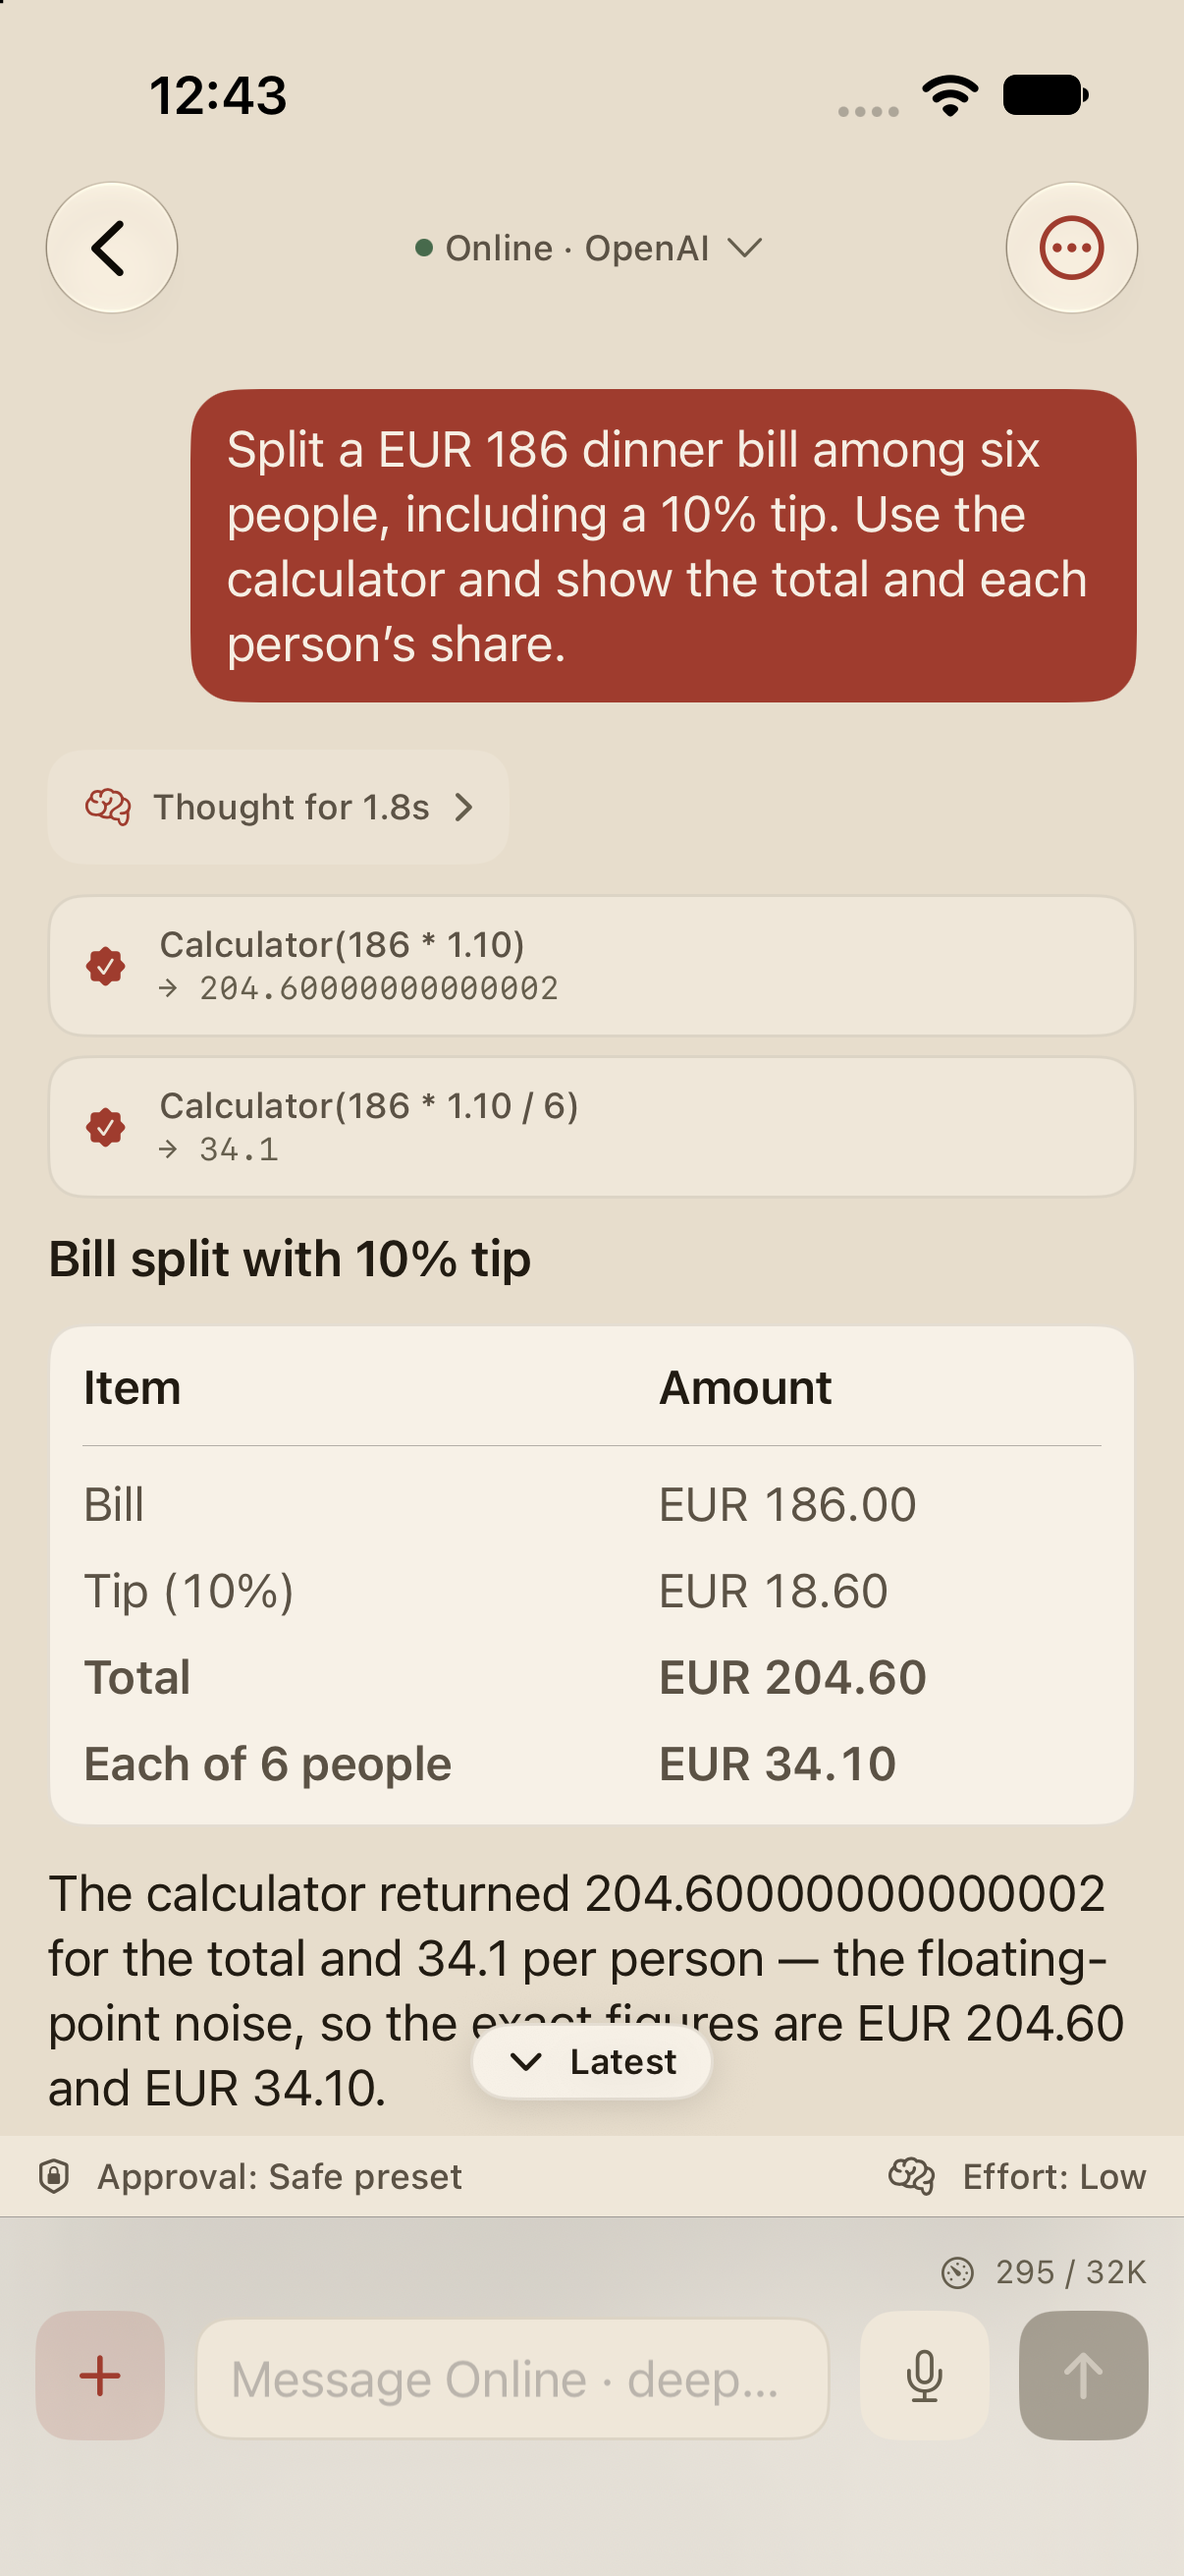
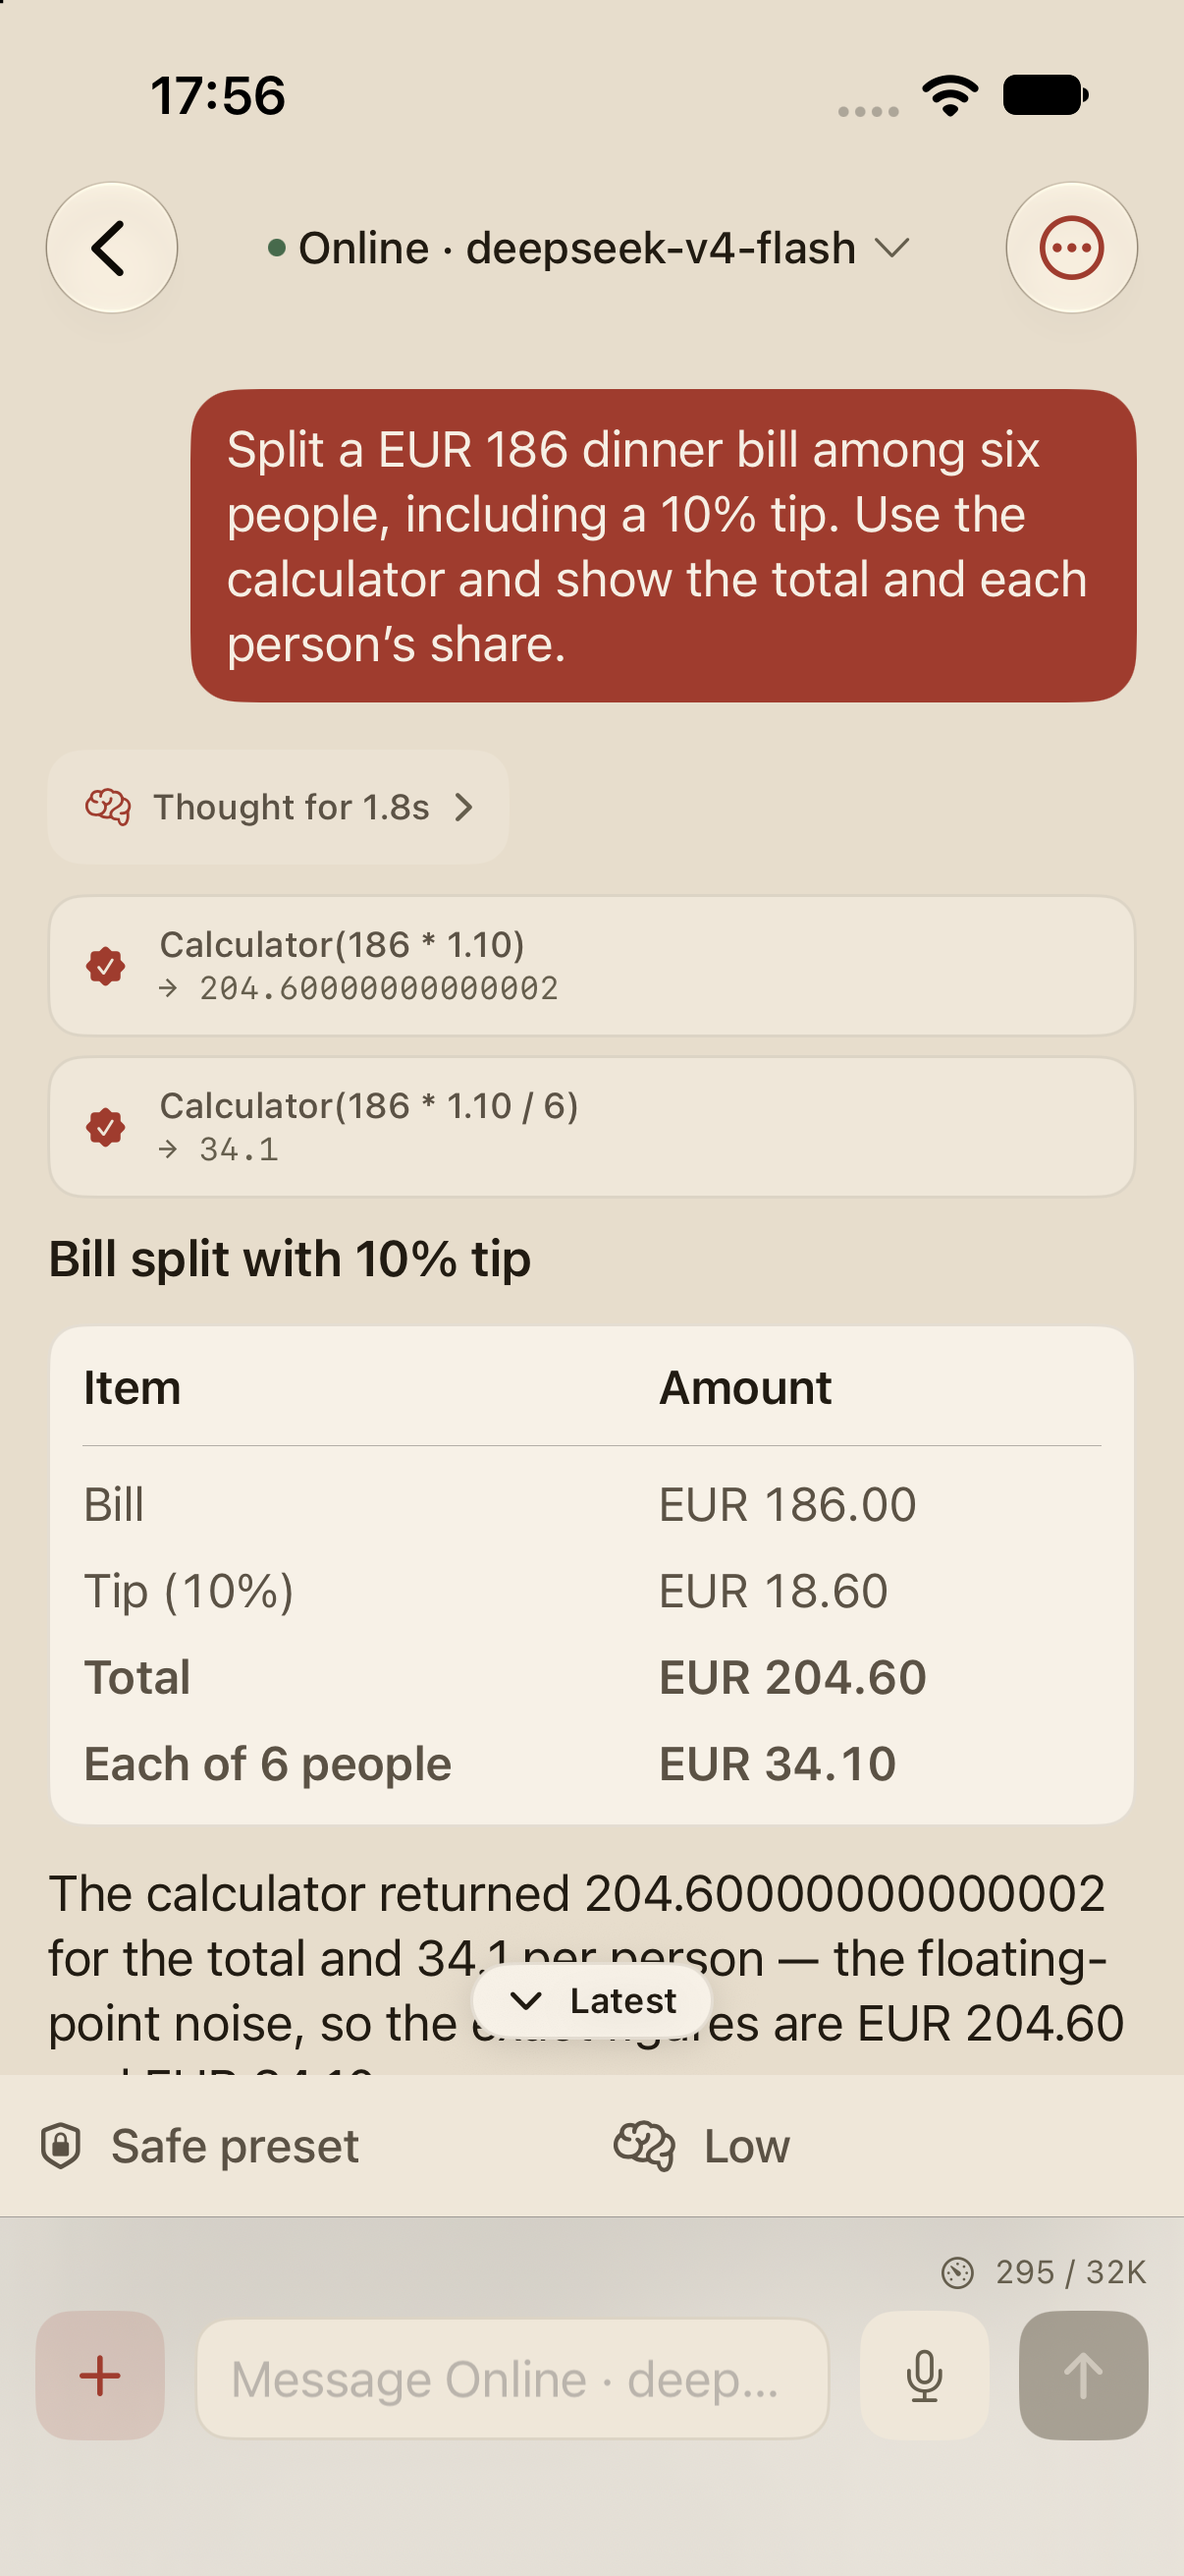
docs: refresh task workspace demos and focused validation results

diff --git a/README.md b/README.md
@@ -17,7 +17,7 @@ there is no mobileLLM account or telemetry.
 
 <p align="center">
   <a href="assets/demo/chat.png"><img src="assets/demo/chat.png" width="260" alt="Chat and tools: a dinner bill split using two real Calculator calls." /></a>
-  <a href="assets/demo/models.png"><img src="assets/demo/models.png" width="260" alt="Model catalog: Qwen models with download sizes, precision, vision support, and memory estimates." /></a>
+  <a href="assets/demo/models.png"><img src="assets/demo/models.png" width="260" alt="Model catalog: Qwen download sizes, memory estimates, image support, and expandable options." /></a>
   <a href="assets/demo/tools.png"><img src="assets/demo/tools.png" width="260" alt="Tool settings: individual switches for search, webpage reading, calculator, memory, and calendar access." /></a>
 </p>
 
@@ -26,16 +26,18 @@ there is no mobileLLM account or telemetry.
 ## See it in use
 
 <p align="center">
-  <a href="assets/demo/models.png"><img src="assets/demo/models.gif" width="360" alt="Searching the model catalog for Qwen and scrolling through the available models." /></a>
-  <a href="assets/demo/workflow.png"><img src="assets/demo/workflow.gif" width="360" alt="Submitting a reading-list app task, opening its workflow, and expanding the completed agent calls." /></a>
+  <a href="assets/demo/models.png"><img src="assets/demo/models.gif" width="360" alt="Finishing a model search, inspecting precision options, and comparing models." /></a>
+  <a href="assets/demo/task-inputs.png"><img src="assets/demo/workflow.gif" width="360" alt="Reading a completed task, scrolling to its input results, and opening an upstream result." /></a>
 </p>
 
 Search the catalog to compare models before downloading. For a larger task, follow the agents as
 they work: in this demo, two investigate storage and sync, and a third uses their findings to make
-a plan. [View the completed agent list](assets/demo/workflow.png).
+a release checklist. [Task workspace](assets/demo/workflow.png) · [Result and inputs](assets/demo/task-inputs.png)
+· [Dark mode](assets/demo/workflow-dark.png).
 
 Captured from the iPhone Simulator. Chat and workflow demos use the real DeepSeek `deepseek-v4-flash`
-service. The workflow recording is sped up 3×. [Capture details](assets/demo/README.md).
+service. Both clips play at 2× speed; the workflow clip inspects saved results from an actual run.
+[Capture details](assets/demo/README.md).
 
 ## Use it
 
@@ -61,18 +63,19 @@ Choose **Ask**, **Safe preset**, or **Full access** in the conversation's approv
 Web search works with public search engines by default. To use DeepSeek's paid Search and Fetch
 APIs, select your configured DeepSeek account under **Choose tools → Web service**.
 
-**Multi-agent work.** Start a message with `/workflow` and describe the goal and constraints.
+**Multi-agent work.** Choose **+ → Work with agents**, or start a message with `/workflow`,
+and describe the goal and constraints.
 The supervisor assigns work, passes results to dependent agents, and returns the final answer.
-Open the workflow card to follow its status and agent calls, or pause and resume it.
+Open the workflow card to follow tasks and their source results, review requests, or pause and resume
+work. Completed workflows remain available from the conversation menu.
 
-For example, the recorded demo starts with:
+The task shown in the demo was started with:
 
 ```text
-/workflow Plan an offline reading-list app. Have one agent design local
-storage and another examine sync conflicts. Then have a third agent use
-both findings to propose an implementation plan. Keep each contribution
-under 100 words and the final answer under 160 words. No web research
-is needed.
+/workflow Plan an offline recipe app. Have one agent propose local
+storage, another examine sync conflicts, and a third use both results
+to write a release checklist. Keep each worker under 80 words and the
+final answer under 140 words. No web research.
 ```
 
 You can also attach images to supported local vision models, dictate a message, use a reusable

diff --git a/docs/STATUS.md b/docs/STATUS.md
@@ -1,12 +1,42 @@
 # Current implementation and validation status
 
-Updated **2026-10-24** after integrating the DeepSeek web service and multi-stage agent work into `main`.
-The integrated implementation ends at
-[`8ff6f70`](https://github.com/nanguoyu/mobileLLM/commit/8ff6f702580b83aabc607292e04128c5c8de619b),
-whose hosted CI passed. The evaluation results below retain their original tested versions and dates;
-the fast-forward integration does not change the code or rerun those evaluations.
+Updated **2026-10-24** for the task workspace redesign on `main`. The dated model evaluations below
+retain their original tested versions and outcomes; interface changes do not rerun or recertify them.
 [spec.md](../spec.md) defines requirements, [ARCHITECTURE.md](ARCHITECTURE.md) describes the code,
 and [CONTRIBUTING.md](../CONTRIBUTING.md) gives validation commands.
+
+## Task workspaces and interface
+
+Workflows now show stage-grouped worker tasks, their actual execution state, and public results read
+from the verified value store. Coordination calls and source inspection live under Execution details.
+Continuations share a logical task history; input links resolve by journal sequence so a later retry
+cannot replace an earlier consumer's source. Missing metadata in older records remains explicit.
+
+The initial planner and pending child tasks expose approval and question controls through isolated,
+observer-only run stores. Opening a detail cannot submit another run or overwrite the main chat.
+Workflow pause and reconciliation retain their existing command boundaries. Rejected commands show
+their safe error. Completed history stays available, and final-answer replay uses the recorded end time
+without bumping conversation activity on reads.
+
+The composer has a Work with agents entry. Model options use progressive disclosure, settings explain
+choices more briefly, and the chat header identifies the actual online model. Workflow cards use the
+shared light/dark palette and support large text. Model searches dismiss their keyboard on submission
+and interactive scrolling. [Current screenshots and clips](../assets/demo/README.md) show these surfaces.
+
+Validation used focused contract, coordination, presentation, observer-command, title, and history
+checks, plus one Simulator UI scenario. That scenario passed through the composer entry, Ask-mode
+planning and child approvals, saved-output reading, copy feedback, exact call history, source inspection,
+and final-answer projection. Early UI attempts found inherited accessibility identifiers; the view
+scopes were fixed while retaining the invocation-count assertions. A later cold-relaunch check caught
+the second history timestamp writer and now exercises a changed metadata snapshot, not a no-op save.
+
+Two real `deepseek-v4-flash` tasks exercised the production Simulator app: a three-worker recipe-app plan
+with source-result navigation, and an offline-note task whose initial planner, worker and subsequent
+coordinator were approved through the actual UI. The latter includes manual waiting and is not a
+latency measurement. Dark Mode, accessibility-extra-large text, completed-history access, model options,
+tool settings and the search keyboard were inspected directly. iOS and macOS app builds and the static
+verifier passed. The Mac desktop was locked, so native Mac visual inspection could not be completed.
+No full repository suite or paid task matrix was rerun for the UI changes.
 
 ## Autonomous collaboration: current assessment
 

diff --git a/assets/demo/README.md b/assets/demo/README.md
@@ -1,26 +1,28 @@
 # README captures
 
-Captured on 2026-10-24 from mobileLLM running on the iPhone 17 Simulator with iOS 27.
+Refreshed on 2026-10-24 from the redesigned mobileLLM UI on the iPhone 17 Simulator with iOS 27.
 The app used separate real stores for this demo. No fixed-response transport was enabled.
 
 | File | What it shows |
 | --- | --- |
 | `chat.png` | A real `deepseek-v4-flash` response with two completed Calculator calls. |
-| `models.png` | The Featured catalog filtered to Qwen. Memory badges reflect the Simulator's reported hardware. |
+| `models.png` | The compact Featured catalog filtered to Qwen. Memory badges reflect the Simulator's reported hardware. |
 | `tools.png` | Individual tool permissions in Settings. |
-| `workflow.png` | Three completed workers: storage, sync, and a plan using their results. The list also includes two coordinator calls. |
-| `models.gif` | A 12.3-second excerpt of model search and scrolling, at original speed. |
-| `workflow.gif` | A continuous 46-second excerpt from submission to completed agent calls, played at 3× speed. |
+| `workflow.png` | Three worker tasks grouped into parallel analysis and a dependent release checklist. Coordinator calls are separate. |
+| `task-inputs.png` | The release checklist's public output and links to the exact earlier storage and sync results. |
+| `workflow-dark.png` | The same workspace in system Dark Mode. |
+| `models.gif` | Finishing a search, inspecting options and comparing models. A 20.1-second recording at 2× speed. |
+| `workflow.gif` | Inspecting a saved task and following an input link. A continuous 22.4-second excerpt at 2× speed. |
 
-The chat and workflow used the configured DeepSeek service. Its saved display name in this
-development profile is “OpenAI”, which appears in the chat header. Responses were not edited.
-The reading-list prompt is reproduced in the root README. The bill prompt was:
+The chat and workflow used the configured DeepSeek `deepseek-v4-flash` service. Responses were not edited.
+The recipe task ran at `99ff571`; the latest UI reads those same saved outputs without rerunning the model.
+The complete workflow prompt is reproduced in the root README. The bill prompt was:
 
 > Split a EUR 186 dinner bill among six people, including a 10% tip. Use the calculator and show the total and each person's share.
 
 Still images are original 1206 × 2622 Simulator screenshots. GIFs are converted from Simulator
-recordings to 440-pixel width and 10 fps with a 128-color palette. Only the workflow clip changes
-playback speed. These are interface demonstrations; task-quality evaluations remain in
+recordings to 440-pixel width and 10 fps with a 128-color palette. Both clips change playback speed
+as specified above. These are interface demonstrations; task-quality evaluations remain in
 [the current status document](../../docs/STATUS.md).
 
 To refresh, capture the real app with a separate demo conversation, check every frame for private
